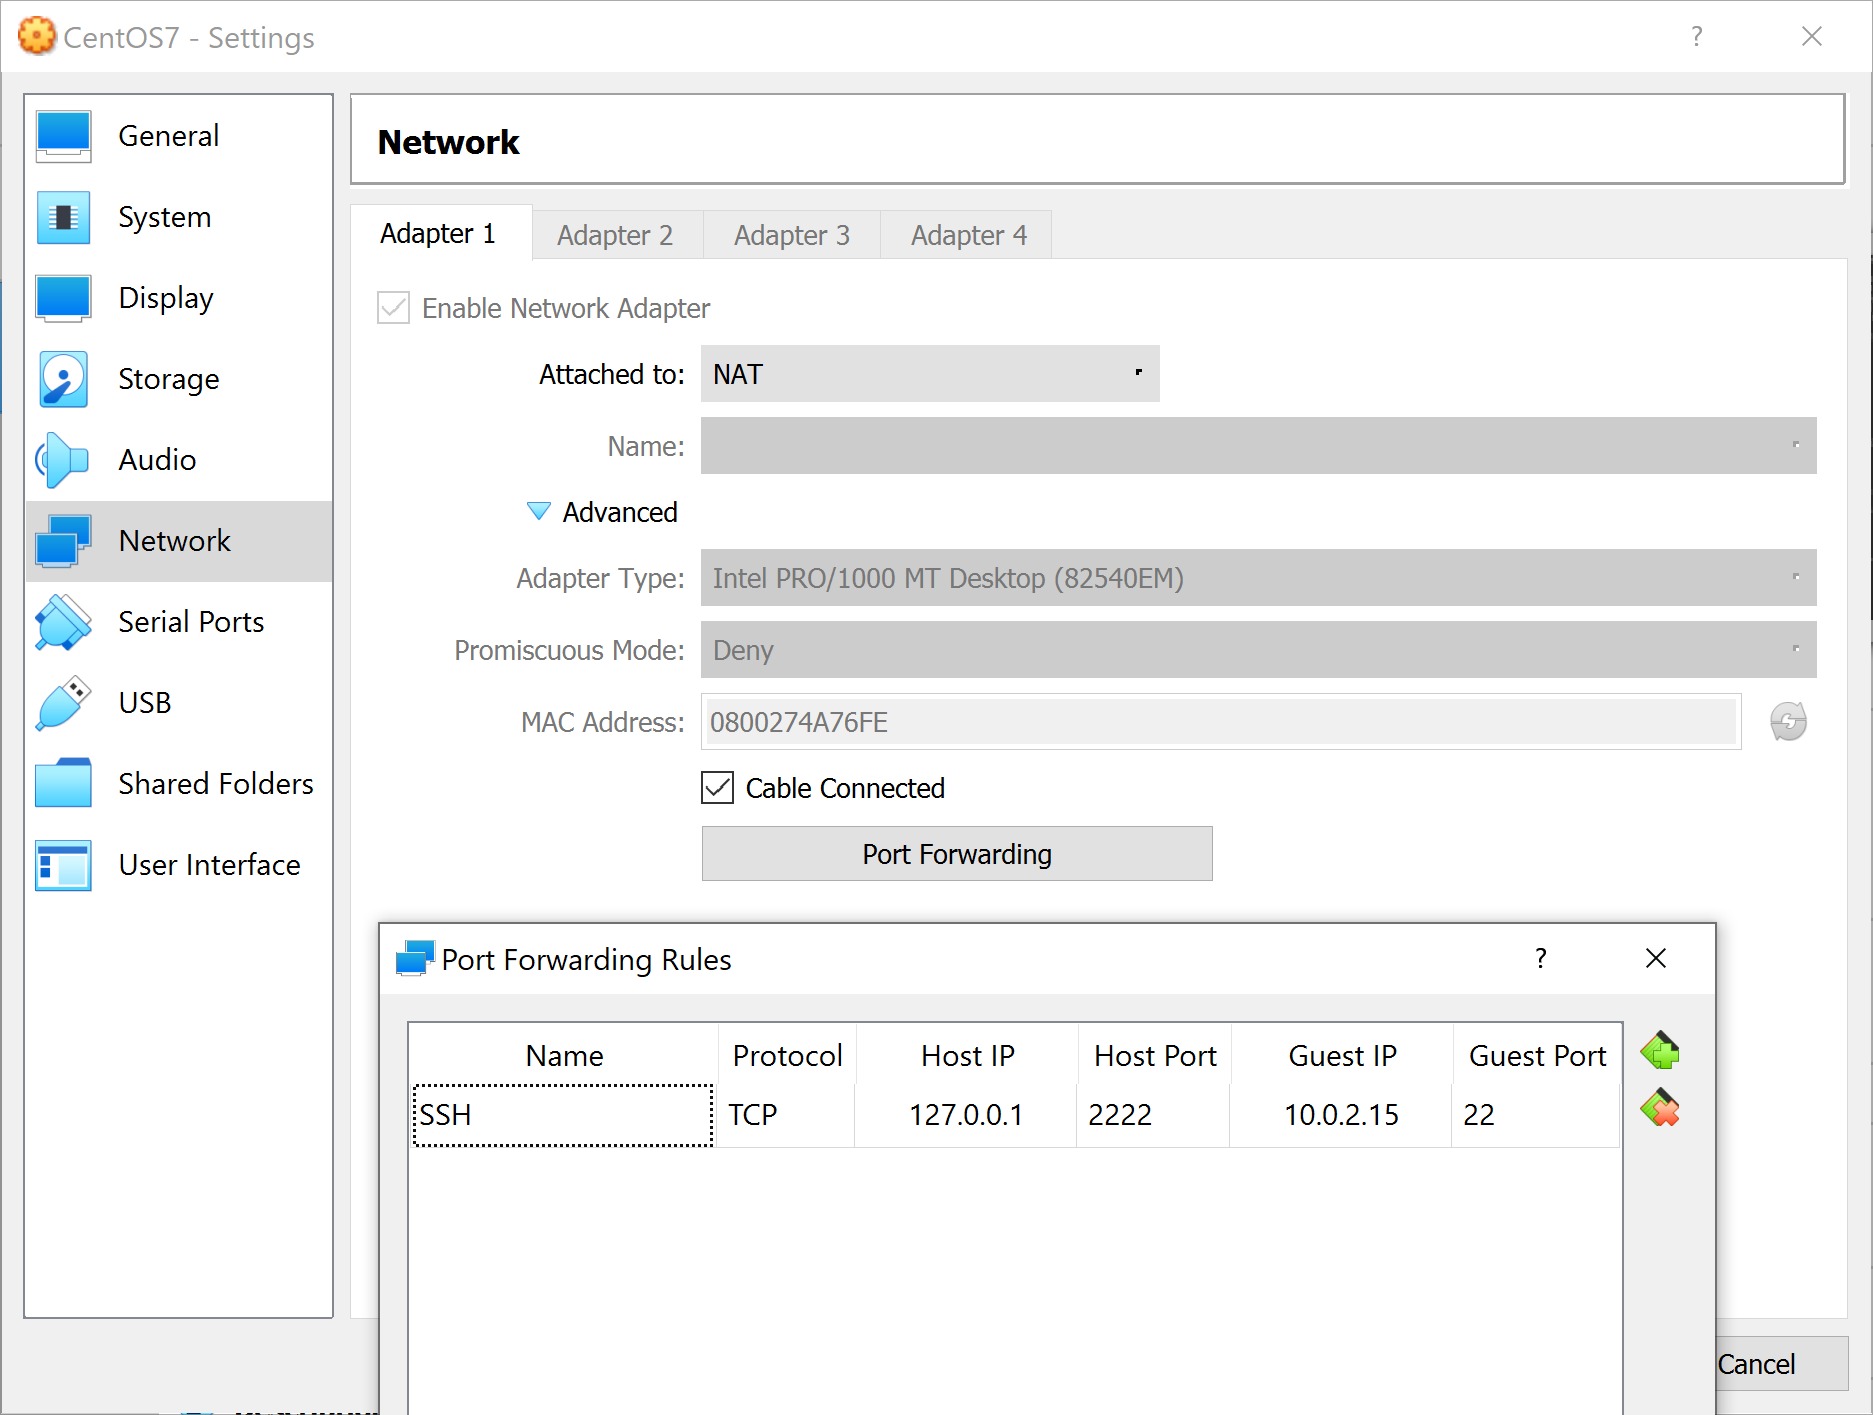
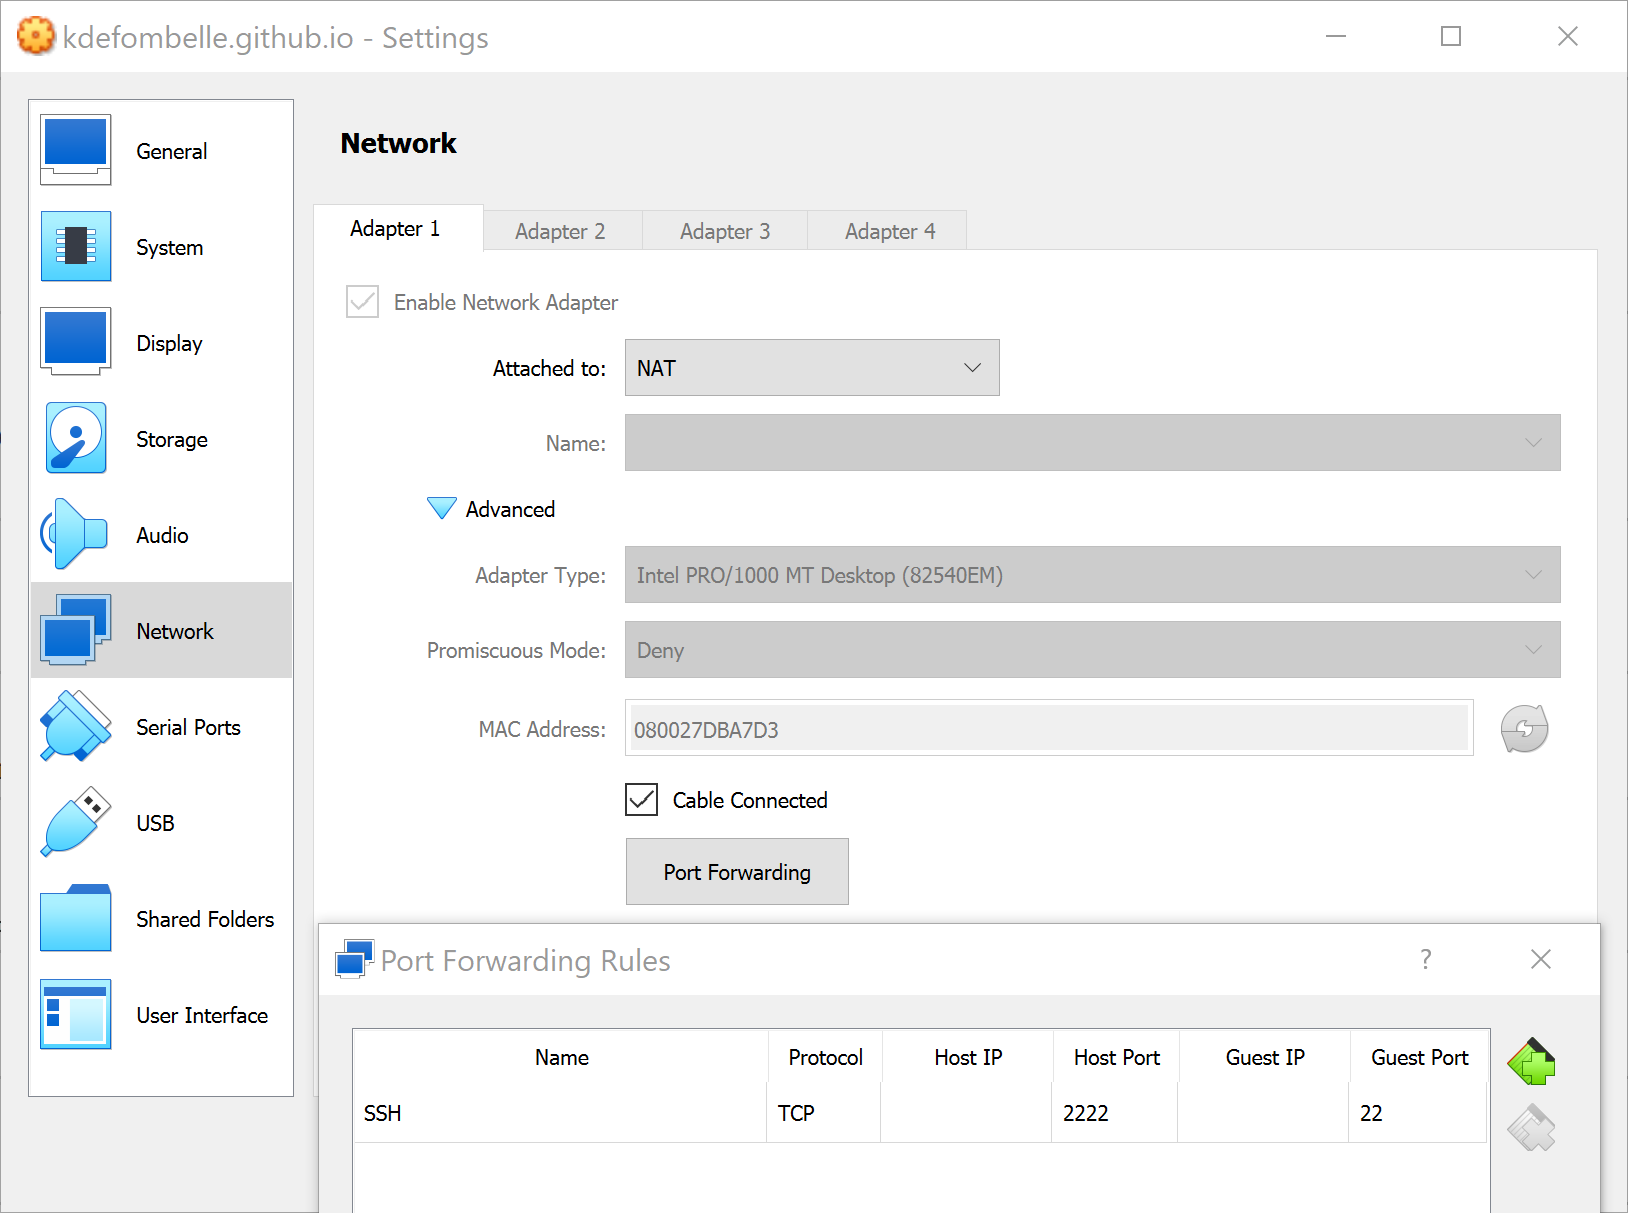
enrich VirtualBox article

diff --git a/_posts/2022-09-28-virtualbox.md b/_posts/2022-09-28-virtualbox.md
@@ -5,39 +5,48 @@ date:	 2022-09-28 00:00:00 +0800
 categories: linux
 ---
 
-This post will go through tyhe main elements to install a CentOS image on VirtualBox to get a real Linux system on your (other) OS.  
+This post will go through the main elements to install a Linux image on VirtualBox to get a real Linux system on your host.
 
-## Install CentOS on VirtualBox
+## Install Linux on VirtualBox
 - Install Oracle VirtualBox from [https://www.virtualbox.org/](https://www.virtualbox.org/)
-- Download CentOS image from [http://isoredirect.centos.org/centos/7/isos/](http://isoredirect.centos.org/centos/7/isos/)
-- Create a new VM basd on this image
+- Download a Linux image: [Fedora](https://getfedora.org/en/workstation/download/), [Rocky Linux](https://rockylinux.org/), [CentOS](http://isoredirect.centos.org/centos/7/isos/)
+- Create a new VM based on this image: in VitualBox select New and pick the .iso of your choice
 
-## Install VirtualBox Guest Addition (optional)
-https://askubuntu.com/a/1119250
-```
-sudo su
-cd /media
-mkdir cdrom
-mount /dev/cdrom /media/cdrom
-cd cdrom
-sh VBoxLinuxAdditions.run
-```
-share disk https://www.linuxshelltips.com/install-virtualbox-guest-additions/
-
-## Configure CentOS
+## Configure Linux
 
 ### Add a sudoer
-adding user as sudoer as depicted on https://linuxize.com/post/how-to-add-user-to-sudoers-in-centos/
-add username  `ALL=(ALL) NOPASSWD:ALL` at the end of `/etc/sudoers` 
-you can edit via `visudo`
+Set user as sudoer as depicted on https://linuxize.com/post/how-to-add-user-to-sudoers-in-centos/.  
+Add `username  ALL=(ALL) NOPASSWD:ALL` at the end of `/etc/sudoers`    
+You can edit via `visudo` as root (`sudo -i` to get a root prompt).  
+
+### Change Hostname
+cf. https://www.hostinger.com/tutorials/change-hostname-on-centos-7/.
+`hostnamectl set-hostname fedora.local`
+
+## Install VirtualBox Guest Addition
+It enables features like file sharing and copy/paste from/to your host.
+
+Start the VM.  
+In Menu select _Devices>Insert Guest Additions CD Image_.  
+Configure a **Shared folder** with _Auto-mount_ and _Make Permanent_ ticked.  
+<div class="row mt-3">
+    <div class="col-sm mt-3 mt-md-0">
+        <img class="img-fluid rounded z-depth-1" src="{{ site.baseurl }}/assets/img/2022-09-28-vbox-ga-shared-folder.png">
+    </div>
+</div>
+
+Grant rights for you user on the vboxsf group to access the shared folder `sudo usermod -aG vboxsf $USER`  
+Configure **Shared clipboard** as _Bidirectional_.  
+
+## (Optional) Configure Linux Further
 
 ### Install handy packages
-install _netstat_, _ifconfig_ `sudo yum install net-tools -y`<br/> 
-install _lsof_ `sudo yum install lsof -y`<br/>
-install _bcc-tools_ 
+install _netstat_, _ifconfig_ `sudo yum install net-tools -y`  
+install _lsof_ `sudo yum install lsof -y`  
+install _bcc-tools_  
 - "Kernel headers not found" error, cf. https://unix.stackexchange.com/a/568358/538394
 `yum install "kernel-devel-uname-r == $(uname -r)" `
-- configure .bashrc `sudo yum install bcc-tools`
+- configure .bashrc `sudo yum install bcc-tools`  
 
 install _bzip2_ `sudo yum install bzip2 -y`
 
@@ -50,17 +59,23 @@ export PATH=$BCC_BIN:$PATH
 alias psudo="sudo env \"PATH=$PATH\""
 ```
 
-### Change Hostname
-https://www.hostinger.com/tutorials/change-hostname-on-centos-7/
-hostnamectl set-hostname centos7.local
-
 ### ssh
+Let's check first ssh is up and running or start it now
+```bash
+systemctl status sshd
+systemctl enable sshd --now #start and register as auto-start ssh for next VM boot
+```
+
+**ssh** can be configured using Bridged Adapter or NAT.
+Note service called ssh or sshd according your Linuc distribution.
+
+Most credit from [here](https://www.golinuxcloud.com/ssh-into-virtualbox-vm/).  
+
 #### Using Bridged Adapter
 `systemctl start sshd` https://www.golinuxcloud.com/ssh-into-virtualbox-vm
 
 <div class="alert alert-danger" role="alert"><i class="fa fa-exclamation-circle">
-Unfortunately this configuration has been proven sometimes instable and the brideg adapter network interface stops starting when rebooting the VM.
-</i></div>
+Unfortunately this configuration has been proven sometimes instable and the brideg adapter network interface stops starting when rebooting the VM.</i></div>
 
 <div class="row mt-3">
     <div class="col-sm mt-3 mt-md-0">
@@ -69,7 +84,7 @@ Unfortunately this configuration has been proven sometimes instable and the brid
 </div>
 <br/>
 
-#### Using Bridged Adapter with Port Forwarding
+#### Using NAT
 To ssh in the guest machine on 127.0.0.1:2222
 <div class="row mt-3">
     <div class="col-sm mt-3 mt-md-0">
@@ -77,6 +92,21 @@ To ssh in the guest machine on 127.0.0.1:2222
     </div>
 </div>
 <br/>
+
+## FAQ
+
+### Ubuntu tips
+https://askubuntu.com/a/1119250
+sudo su
+cd /media
+mkdir cdrom
+mount /dev/cdrom /media/cdrom
+cd cdrom
+sh VBoxLinuxAdditions.run
+
+"Kernel headers not found"
+yum install "kernel-devel-uname-r == $(uname -r)" 
+https://unix.stackexchange.com/a/568358/538394
 
 ### Autoboot of Network Interface
 /etc/sysconfig/network-scripts/ifcfg-eth0 > ONBOOT=yes
